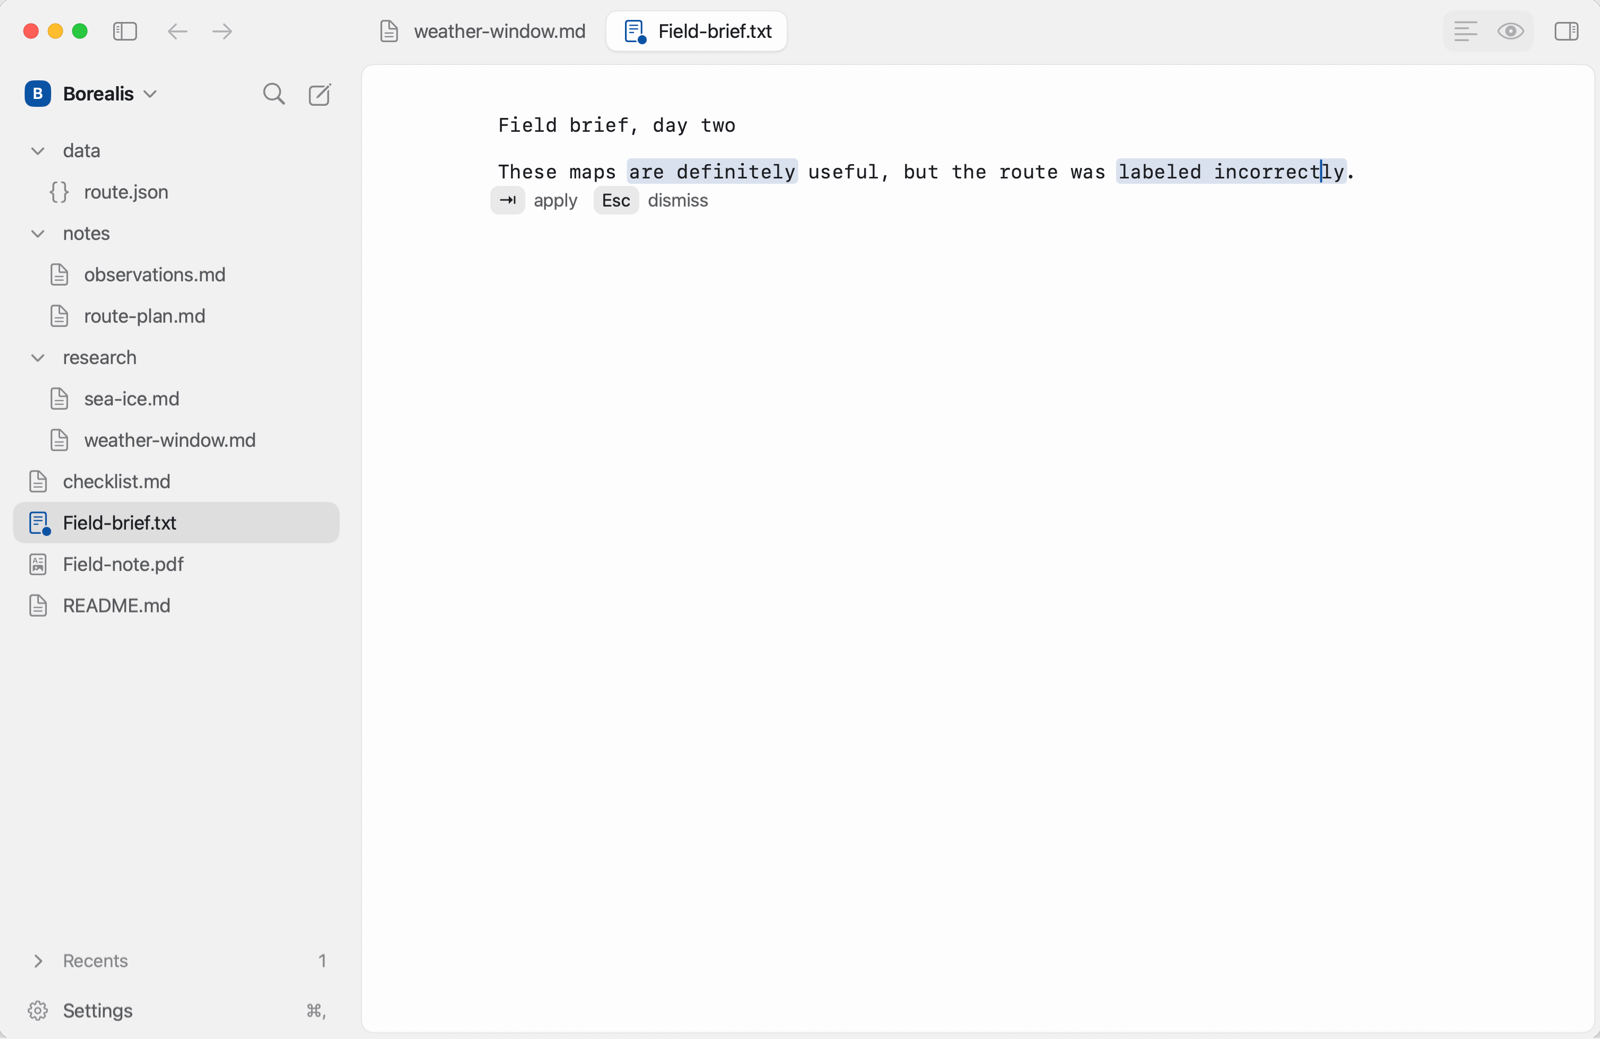
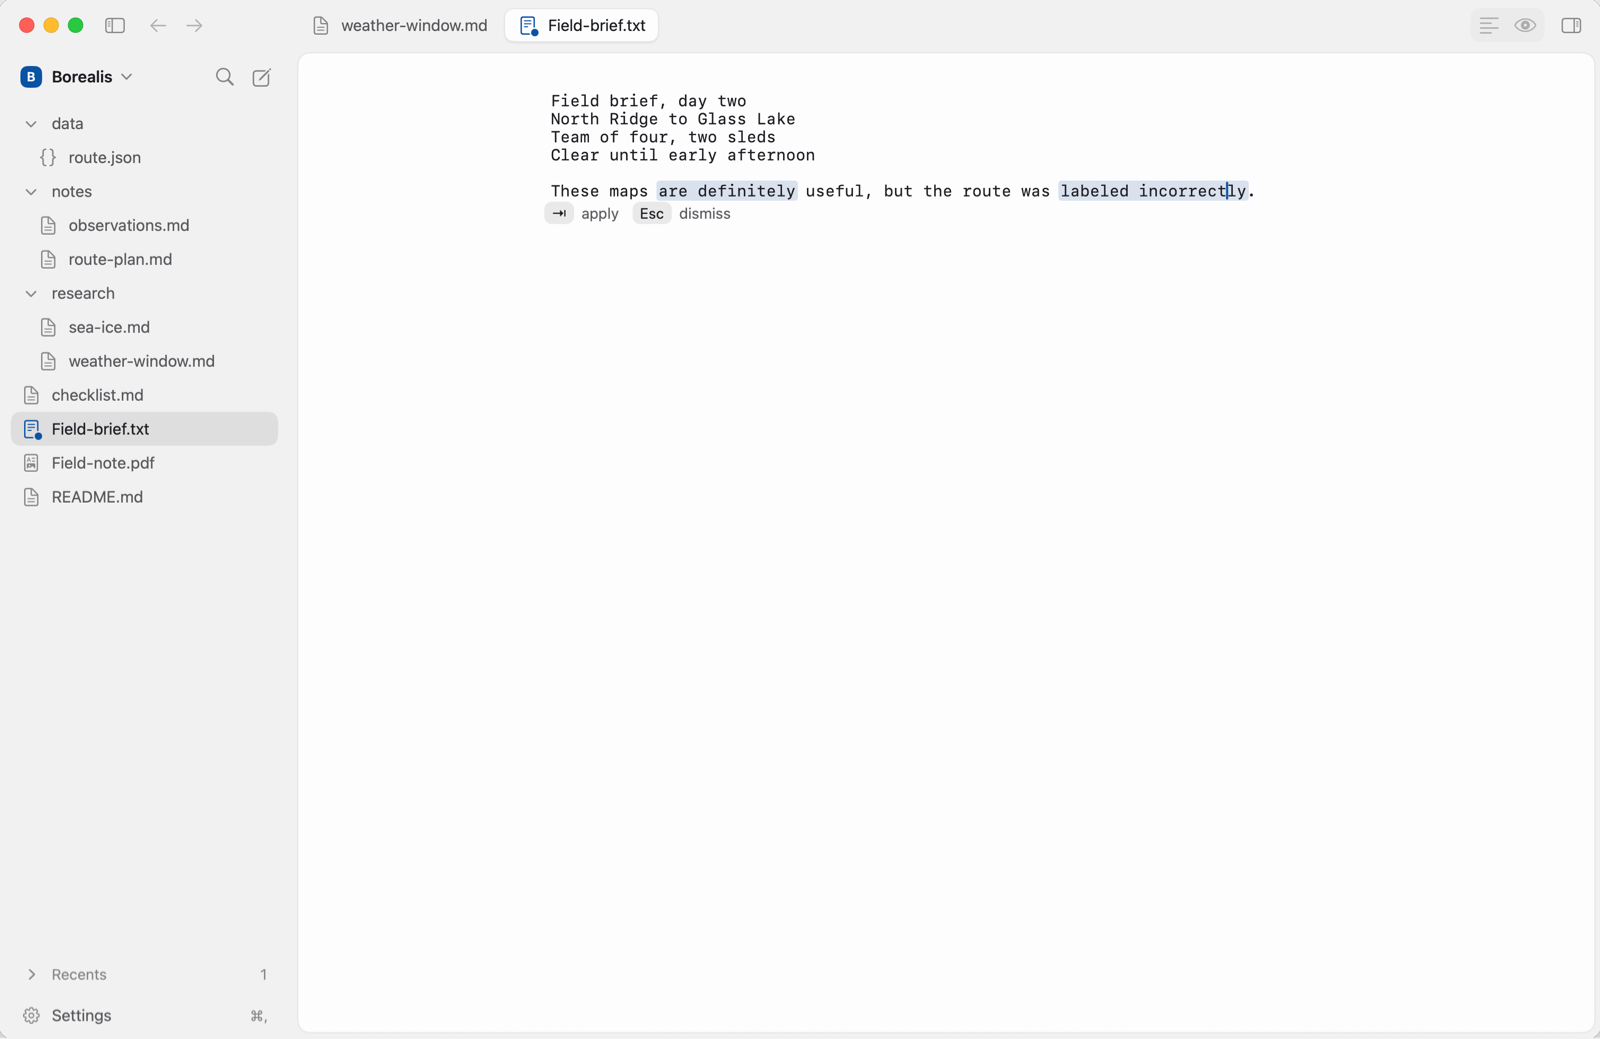
Show the site's product shots at one size
The writing-assistance demo was recorded at a larger zoom than the other
shots, so the window changed size when switching to its tab and its file tabs
ran under the laptop's notch. It is recorded again at the shots' zoom, with a
few heading lines so Writing Tools opens inside the window. The Preview tab is
removed: the Editor tab already shows editing in Preview.

diff --git a/Tests/MonknotAppTests/WorkspaceUITourTests.swift b/Tests/MonknotAppTests/WorkspaceUITourTests.swift
@@ -152,13 +152,10 @@ final class WorkspaceUITourTests: WorkspaceStoreTestCase {
         let root = try await makeBorealisWorkspace()
         var stops: [Stop] = []
         for (theme, name) in [(ThemePreference.light, "light"), (.dark, "dark")] {
-            let screen = Stop(name: "", theme: theme, size: Self.laptopScreen, document: "README.md", zoom: 1.15, activeWindowControls: true)
+            let screen = Stop(name: "", theme: theme, size: Self.laptopScreen, document: "README.md", zoom: Self.laptopZoom, activeWindowControls: true)
             stops += [
                 screen.named("editor-\(name)", tabs: ["notes/route-plan.md"], prepare: Self.openBlockMenu),
                 screen.named("split-\(name)", tabs: ["notes/route-plan.md"], splitView: true),
-                screen.named("preview-\(name)", layout: .init(showsSidebar: false, showsTerminal: false), document: "notes/route-plan.md", tabs: ["README.md"], prepare: { host, window, store in
-                    try await Self.selectInPreview("every two hours", host: host, window: window, store: store)
-                }),
                 screen.named("pdf-\(name)", document: "Field-note.pdf", tabs: ["README.md"]),
                 screen.named("terminal-\(name)", layout: .init(showsSidebar: true, showsTerminal: true), tabs: ["checklist.md"], prepare: Self.runTerminal),
             ]
@@ -193,8 +190,8 @@ final class WorkspaceUITourTests: WorkspaceStoreTestCase {
             throw XCTSkip("Apple's on-device model is not available on this Mac")
         }
         let root = try await makeBorealisWorkspace()
-        // A title line keeps Writing Tools' panel, which opens beside the caret's line, inside the window.
-        try "Field brief, day two\n\n".write(to: root.appendingPathComponent("Field-brief.txt"), atomically: true, encoding: .utf8)
+        // The heading lines keep Writing Tools' panel, which opens beside the caret's line, inside the window.
+        try "Field brief, day two\nNorth Ridge to Glass Lake\nTeam of four, two sleds\nClear until early afternoon\n\n".write(to: root.appendingPathComponent("Field-brief.txt"), atomically: true, encoding: .utf8)
         let defaults = UserDefaults.standard
         let settings: [String: Any] = [
             EditorTextCheckingOptions.spellingPreferenceKey: true,
@@ -211,7 +208,7 @@ final class WorkspaceUITourTests: WorkspaceStoreTestCase {
             let frames = directory.appendingPathComponent(name, isDirectory: true)
             try? FileManager.default.removeItem(at: frames)
             try FileManager.default.createDirectory(at: frames, withIntermediateDirectories: true)
-            let stop = Stop(name: name, theme: theme, mode: .source, size: Self.laptopScreen, document: "Field-brief.txt", tabs: ["research/weather-window.md"], zoom: 1.4, activeWindowControls: true, prepare: { host, window, _ in
+            let stop = Stop(name: name, theme: theme, mode: .source, size: Self.laptopScreen, document: "Field-brief.txt", tabs: ["research/weather-window.md"], zoom: Self.laptopZoom, activeWindowControls: true, prepare: { host, window, _ in
                 try await self.recordWritingAssistance(into: frames, host: host, window: window)
             })
             try await capture(stop, root: root, into: frames)
@@ -691,6 +688,9 @@ final class WorkspaceUITourTests: WorkspaceStoreTestCase {
     /// A 14-inch MacBook Pro's default screen, in points, and the website's picture of it.
     private static let laptopScreen = NSSize(width: 1_512, height: 982)
     fileprivate nonisolated static let screenShotSize = CGSize(width: 1_600, height: 1_039)
+    /// Every website shot and the writing demo use one zoom, so the window keeps its size from tab to
+    /// tab and its file tabs stay left of the laptop's notch.
+    private static let laptopZoom = 1.15
 
     private static func outputDirectory(named variable: String) throws -> URL {
         guard let output = ProcessInfo.processInfo.environment[variable] else {
@@ -717,18 +717,6 @@ final class WorkspaceUITourTests: WorkspaceStoreTestCase {
     /// The terminal's shell run and drawn, with focus in it.
     private static func runTerminal(_ host: NSView, _ window: NSWindow, _ store: WorkspaceStore) async throws {
         try await drawTerminal(in: host, window: window)
-    }
-
-    /// Selects `text` in Preview, which shows the format bar over it.
-    private static func selectInPreview(_ text: String, host: NSView, window: NSWindow, store: WorkspaceStore) async throws {
-        let range = (store.documentText as NSString).range(of: text)
-        try await setPreviewSelection(range.location, NSMaxRange(range), host: host, window: window)
-        // The bar shows when the mouse comes up on the page, as after a drag. It grows in with a
-        // transition, which a page in a test process never runs, so it is shown at its end.
-        let webView = try XCTUnwrap(descendants(of: WKWebView.self, in: host).first { !$0.isHiddenOrHasHiddenAncestor })
-        _ = try await webView.evaluateJavaScript("document.getElementById('content').dispatchEvent(new MouseEvent('mouseup', {bubbles: true})); true")
-        try await Task.sleep(nanoseconds: 300_000_000)
-        _ = try await webView.evaluateJavaScript("document.querySelectorAll('.mk-visible.mk-animate').forEach(element => element.classList.remove('mk-animate')); true")
     }
 
     /// Puts Preview's caret after `text` and types `typed` there (`\r` is Return), through AppKit's key

diff --git a/website/index.html b/website/index.html
@@ -111,12 +111,10 @@
               <img class="product-shot" data-view="writing" data-mode="dark" src="shots/writing-assistance-poster.png" data-static-src="shots/writing-assistance-poster.png" data-animated-src="shots/writing-assistance.gif" alt="Monknot editing Field-brief.txt in Source. The demo offers a sentence's typos and grammar slip as one repair for review and takes it with Tab, accepts a full on-device completion by holding Tab, and opens Apple Writing Tools." width="1600" height="1039" loading="lazy" decoding="async" aria-hidden="true" />
               <img class="product-shot" data-view="writing" data-mode="light" src="shots/writing-assistance-light-poster.png" data-static-src="shots/writing-assistance-light-poster.png" data-animated-src="shots/writing-assistance-light.gif" alt="Monknot editing Field-brief.txt in Source. The demo offers a sentence's typos and grammar slip as one repair for review and takes it with Tab, accepts a full on-device completion by holding Tab, and opens Apple Writing Tools." width="1600" height="1039" loading="lazy" decoding="async" aria-hidden="true" />
               <img class="product-shot" data-view="split" data-mode="dark" src="shots/split-dark.jpg" alt="Monknot in split view, Markdown source beside the rendered preview, scrolled together." width="1600" height="1039" loading="lazy" decoding="async" aria-hidden="true" />
-              <img class="product-shot" data-view="preview" data-mode="dark" src="shots/preview-dark.jpg" alt="Monknot showing route-plan.md in Preview with the sidebar hidden: a warning callout, a numbered list, a closed toggle and a table, with the format bar over selected text." width="1600" height="1039" loading="lazy" decoding="async" aria-hidden="true" />
               <img class="product-shot" data-view="pdf" data-mode="dark" src="shots/pdf-dark.jpg" alt="A PDF exported from README.md open in Monknot, with a highlight and an underline, below the markup toolbar: select, draw, erase, highlight, underline, strike out, text box and color." width="1600" height="1039" loading="lazy" decoding="async" aria-hidden="true" />
               <img class="product-shot" data-view="terminal" data-mode="dark" src="shots/terminal-dark.jpg" alt="Monknot with a terminal session beside README.md in Preview, after running wc and grep in the workspace folder." width="1600" height="1039" loading="lazy" decoding="async" aria-hidden="true" />
               <img class="product-shot" data-view="editor" data-mode="light" src="shots/editor-light.jpg" alt="Monknot editing README.md in Preview in the light appearance, with the block menu open." width="1600" height="1039" loading="lazy" decoding="async" aria-hidden="true" />
               <img class="product-shot" data-view="split" data-mode="light" src="shots/split-light.jpg" alt="Monknot split view in the light appearance." width="1600" height="1039" loading="lazy" decoding="async" aria-hidden="true" />
-              <img class="product-shot" data-view="preview" data-mode="light" src="shots/preview-light.jpg" alt="Monknot Preview with the format bar in the light appearance." width="1600" height="1039" loading="lazy" decoding="async" aria-hidden="true" />
               <img class="product-shot" data-view="pdf" data-mode="light" src="shots/pdf-light.jpg" alt="A marked-up PDF in the light appearance." width="1600" height="1039" loading="lazy" decoding="async" aria-hidden="true" />
               <img class="product-shot" data-view="terminal" data-mode="light" src="shots/terminal-light.jpg" alt="Monknot terminal session in the light appearance." width="1600" height="1039" loading="lazy" decoding="async" aria-hidden="true" />
             </div>
@@ -128,7 +126,6 @@
               <button type="button" role="tab" id="tab-editor" data-view="editor" aria-controls="product-panel" aria-selected="true" tabindex="0">Editor</button>
               <button type="button" role="tab" id="tab-writing" data-view="writing" aria-controls="product-panel" aria-selected="false" tabindex="-1">Writing assistance</button>
               <button type="button" role="tab" id="tab-split" data-view="split" aria-controls="product-panel" aria-selected="false" tabindex="-1">Split</button>
-              <button type="button" role="tab" id="tab-preview" data-view="preview" aria-controls="product-panel" aria-selected="false" tabindex="-1">Preview</button>
               <button type="button" role="tab" id="tab-pdf" data-view="pdf" aria-controls="product-panel" aria-selected="false" tabindex="-1">PDF</button>
               <button type="button" role="tab" id="tab-terminal" data-view="terminal" aria-controls="product-panel" aria-selected="false" tabindex="-1">Terminal</button>
             </div>

diff --git a/website/main.js b/website/main.js
@@ -72,7 +72,6 @@ const VIEWS = [
   { id: "editor", caption: "Edit Markdown and plain text with tabs, document search, and Markdown syntax highlighting." },
   { id: "writing", caption: "Correct spelling and grammar inline. On macOS 26, optional on-device assistance proposes reviewed sentence repairs and short completions." },
   { id: "split", caption: "Edit Markdown or HTML beside its preview, with synchronized scrolling." },
-  { id: "preview", caption: "Render tables, task lists, code blocks, links, and local images." },
   { id: "pdf", caption: "Search PDFs and add highlights, underlines, strikeouts, drawings, or text boxes." },
   { id: "terminal", caption: "Run multiple terminal sessions in the current document or workspace folder." },
 ];
